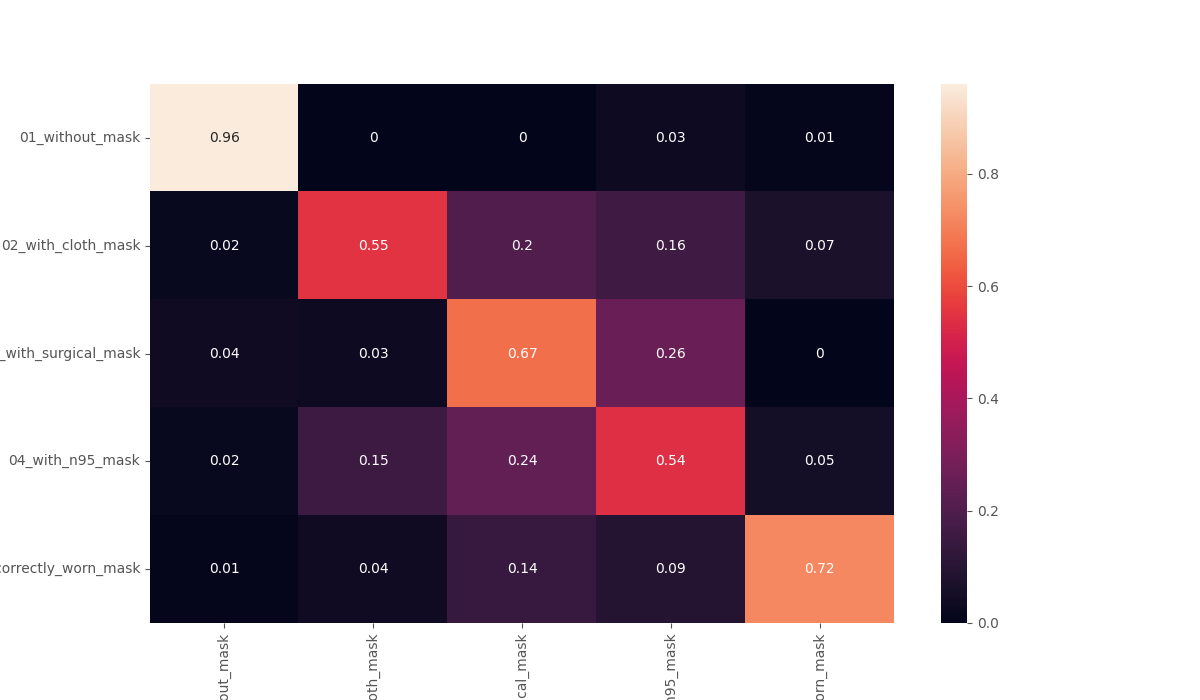
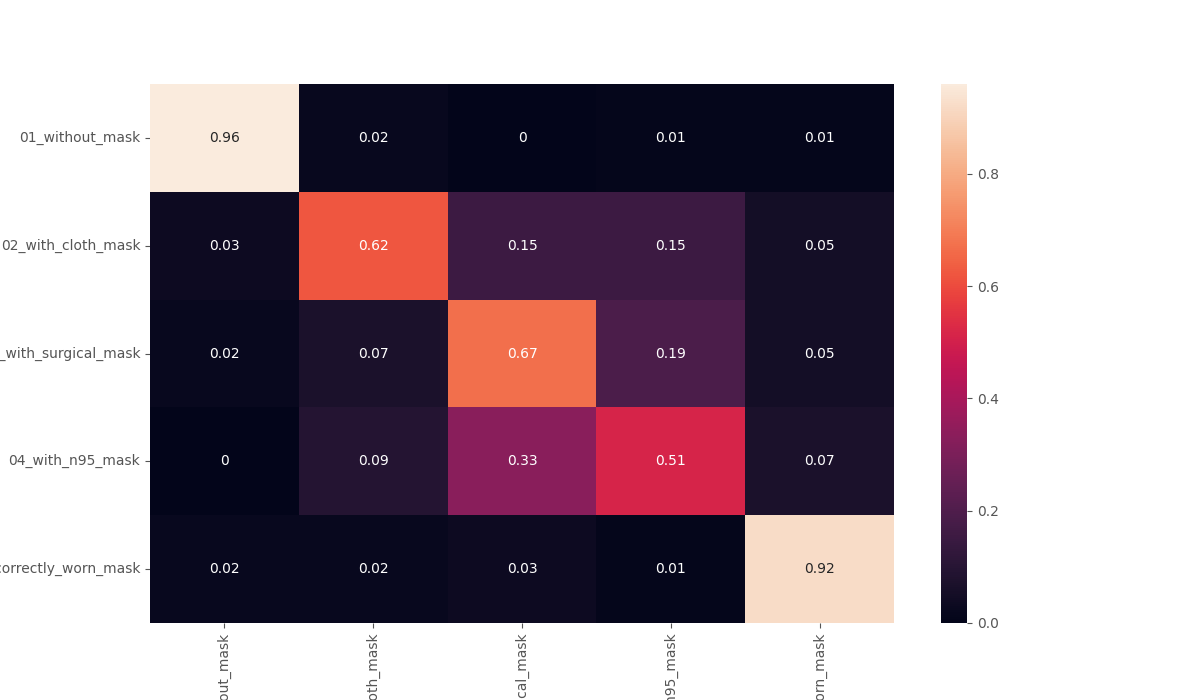
Updated train to work with CNN3 and CNN2

diff --git a/evaluation/train.py b/evaluation/train.py
@@ -3,6 +3,8 @@ import matplotlib
 matplotlib.use("Agg")
 
 from image_classifier.cnn import CNN
+from image_classifier.cnn2 import CNN2
+from image_classifier.cnn3 import CNN3
 from sklearn.metrics import classification_report
 from torch.utils.data import random_split
 from torch.utils.data import DataLoader
@@ -24,7 +26,7 @@ args = vars(ap.parse_args())
 
 # define training hyperparameters
 INIT_LR = 1e-3
-BATCH_SIZE = 4
+BATCH_SIZE = 25
 EPOCHS = 10
 # define the train and val splits
 TRAIN_SPLIT = 0.9
@@ -68,9 +70,11 @@ valSteps = len(valDataLoader.dataset) // BATCH_SIZE
 
 # initialize the CNN
 print("[INFO] initializing the CNN...")
-model = CNN(
-    numChannels=3,
-    classes=len(trainData.dataset.classes)).to(device)
+#model = CNN(
+#    numChannels=3,
+#    classes=len(trainData.dataset.classes)).to(device)
+model2 = CNN3(3).to(device)
+model = model2
 # initialize our optimizer and loss function
 opt = Adam(model.parameters(), lr=INIT_LR)
 lossFn = nn.NLLLoss()
